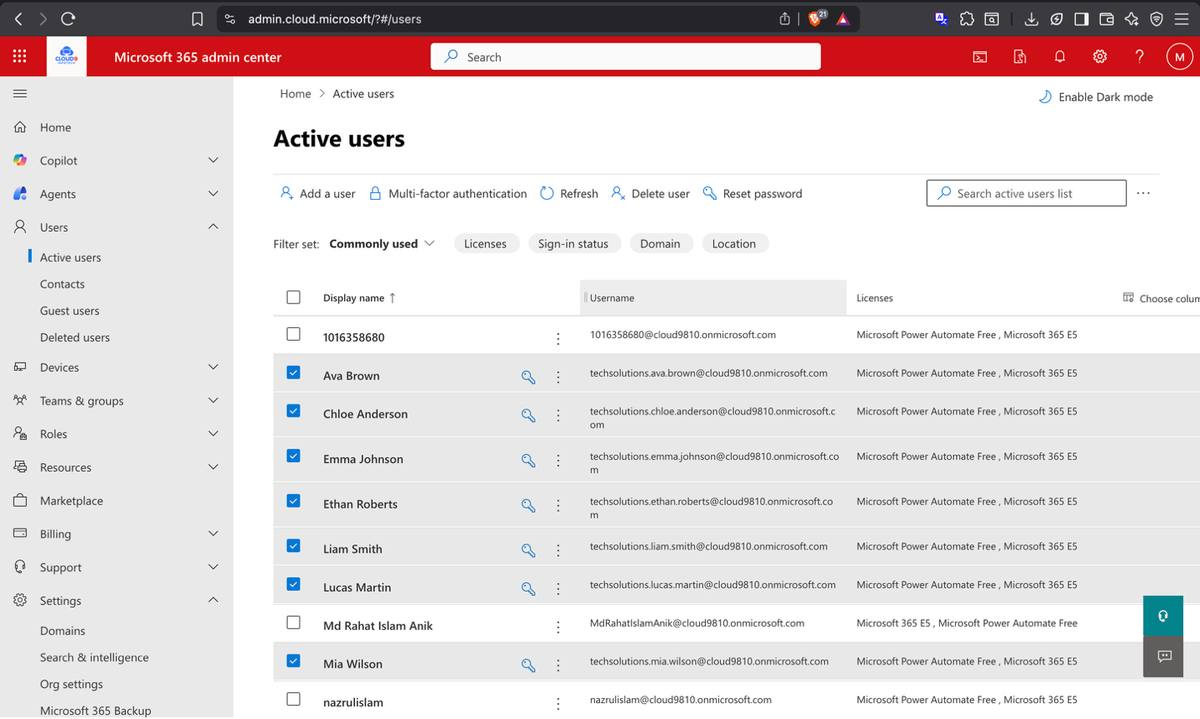
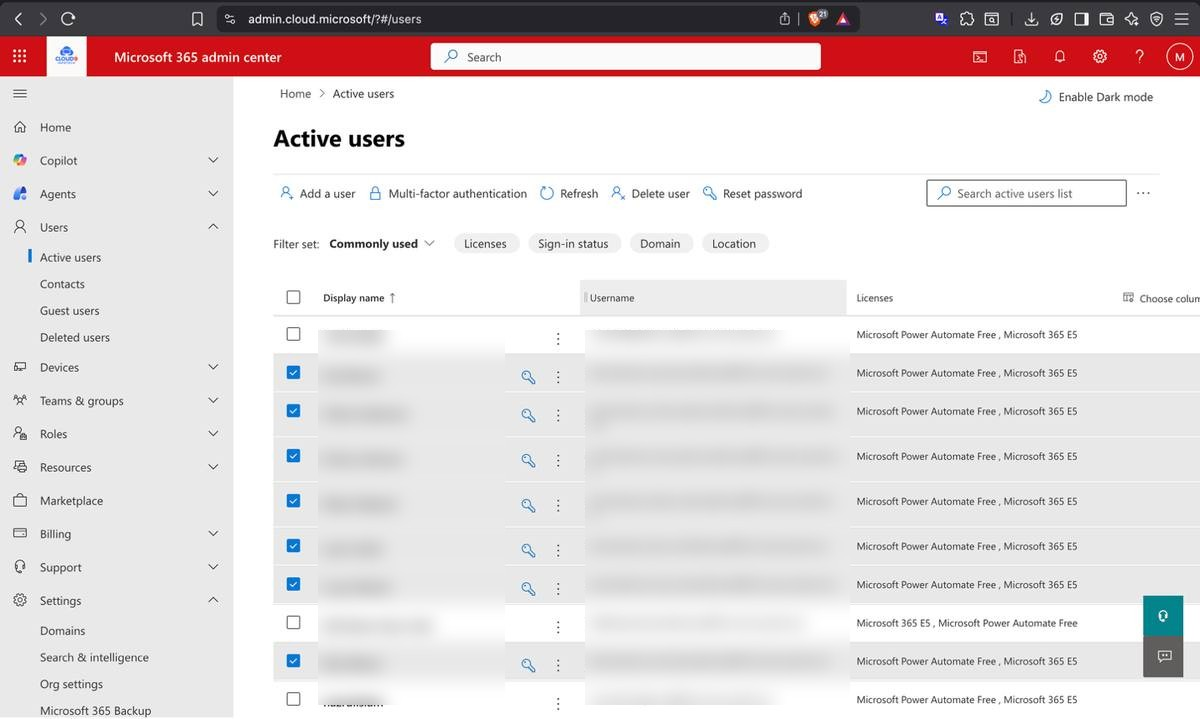
privacy: blur visible lab user identifiers

diff --git a/index.html b/index.html
@@ -779,8 +779,8 @@ footer p {
         </div>
         <div class="ss-grid cols-2" style="margin-top:12px;">
           <figure class="ss">
-      <img src="assets/screenshots/07-techsolutions-hr-group-emma-johnson-and-sophia-clark-configured.jpg" alt="TechSolutions HR group — Emma Johnson and Sophia Clark configured" loading="lazy">
-      <figcaption>TechSolutions HR group — Emma Johnson and Sophia Clark configured</figcaption>
+      <img src="assets/screenshots/07-techsolutions-hr-group-members-configured.jpg" alt="TechSolutions HR group — sample members configured" loading="lazy">
+      <figcaption>TechSolutions HR group — sample members configured</figcaption>
     </figure>
           <figure class="ss">
       <img src="assets/screenshots/08-techsolutions-master-group-all-10-users-enrolled-for-tenant-wide-manag.jpg" alt="TechSolutions master group — all 10 users enrolled for tenant-wide management" loading="lazy">

diff --git a/docs/evidence-map.md b/docs/evidence-map.md
@@ -12,7 +12,7 @@ This map connects the TechSolutions Microsoft 365 case study claims to the scree
 | User profile metadata populated | `assets/screenshots/04-user-profile-configured-company-logo-department-and-job-title-populate.jpg` |
 | IT group creation reviewed | `assets/screenshots/05-techsolutions-it-group-final-configuration-review-before-creation.jpg` |
 | IT group creation confirmed | `assets/screenshots/06-it-group-successfully-created-with-correct-members.jpg` |
-| HR group members configured | `assets/screenshots/07-techsolutions-hr-group-emma-johnson-and-sophia-clark-configured.jpg` |
+| HR group sample members configured | `assets/screenshots/07-techsolutions-hr-group-members-configured.jpg` |
 | Master group model configured for tenant-wide communications | `assets/screenshots/08-techsolutions-master-group-all-10-users-enrolled-for-tenant-wide-manag.jpg` |
 | HR SharePoint permissions and access control validated | `assets/screenshots/09-hr-sharepoint-site-full-control-for-owners-edit-for-members-access-den.jpg` |
 | Marketing team creation rights validated | `assets/screenshots/10-marketing-team-created-in-microsoft-teams-all-marketing-users-added-as.jpg` |
